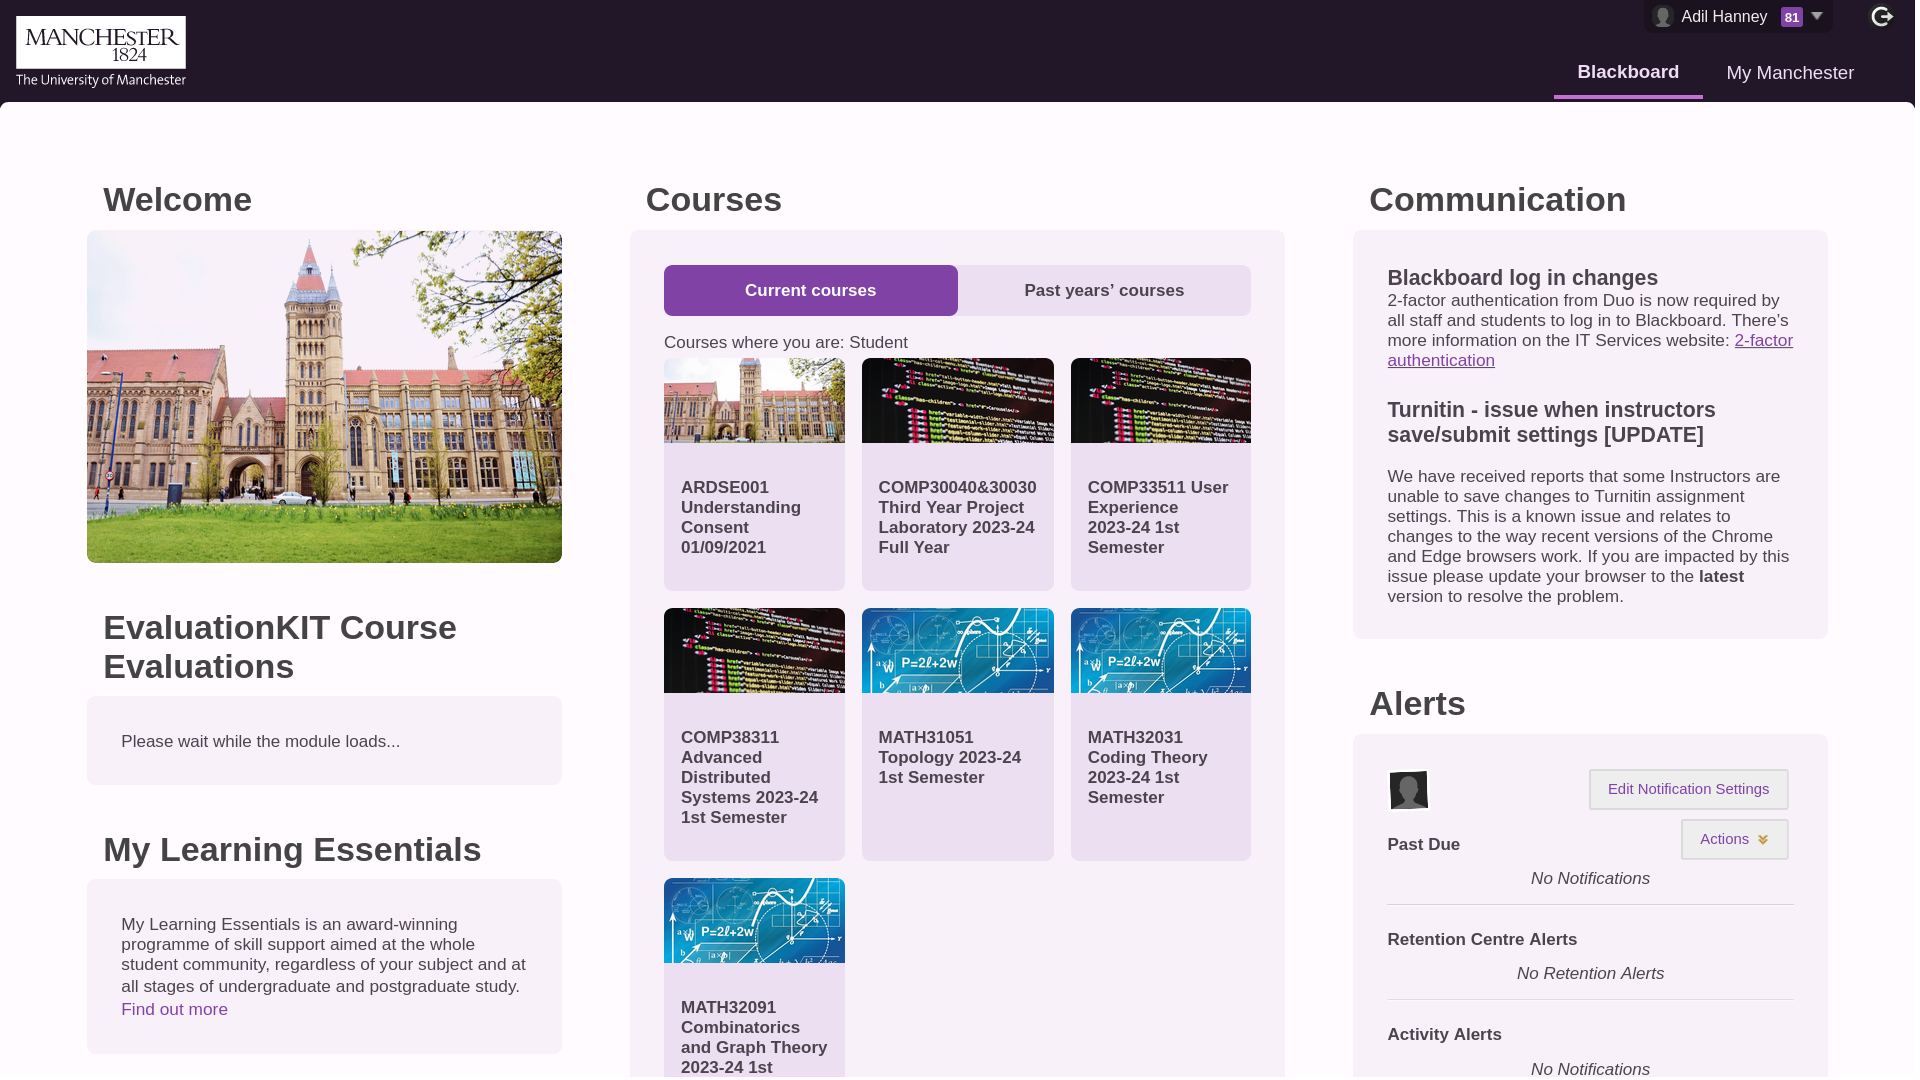
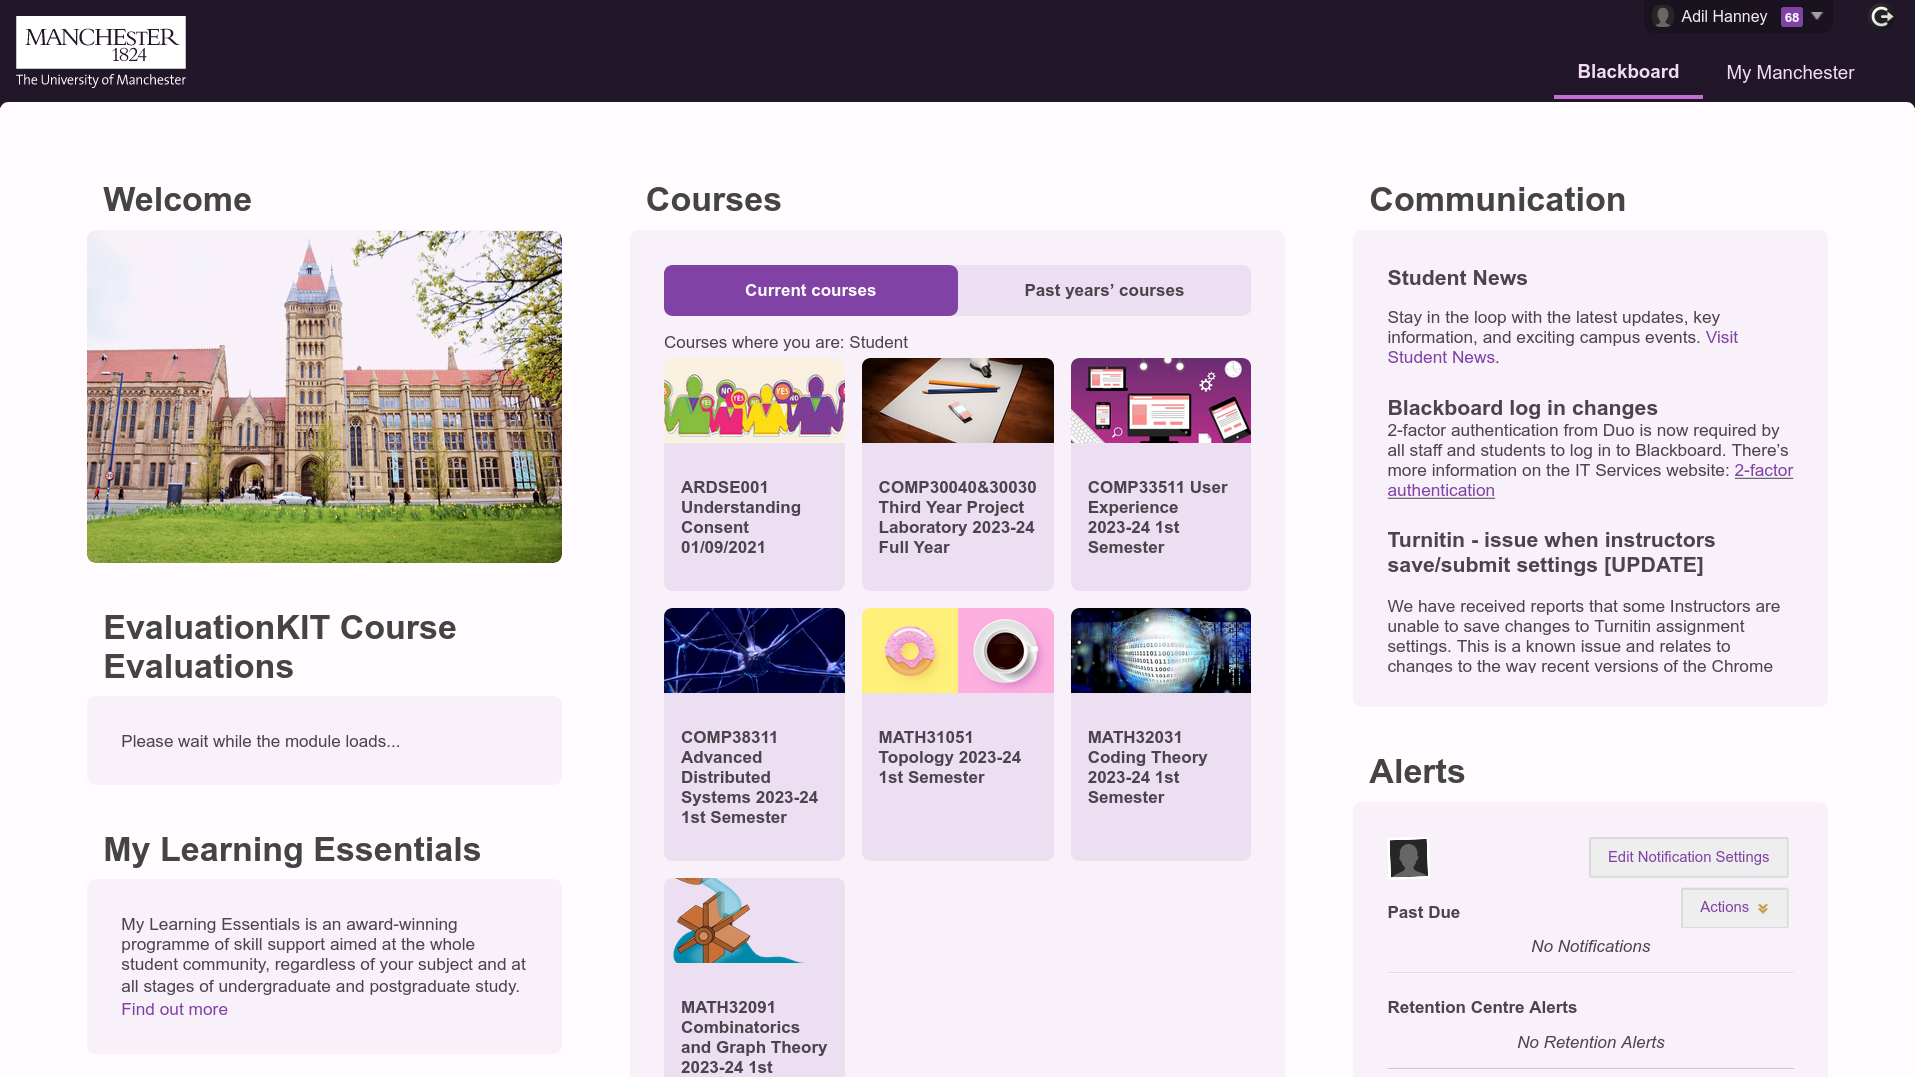
chore: update screenshot and changelog

diff --git a/main.css b/main.css
@@ -1,6 +1,6 @@
 /* ==UserStyle==
 @name           UoM Blackboard theme
-@version        20231204.00.00
+@version        20231211.00.00
 @namespace      userstyles.world/user/adil192
 @description    Themes the blackboard UoM website to look more modern and use a consistent colour scheme.
 @author         adil192

diff --git a/styles/_version.scss b/styles/_version.scss
@@ -1,6 +1,6 @@
 /* ==UserStyle==
 @name           UoM Blackboard theme
-@version        20231204.00.00
+@version        20231211.00.00
 @namespace      userstyles.world/user/adil192
 @description    Themes the blackboard UoM website to look more modern and use a consistent colour scheme.
 @author         adil192

diff --git a/CHANGELOG.md b/CHANGELOG.md
@@ -5,6 +5,7 @@ Here I will outline the changes I've made over time...
 ### 20231211
 
 - Fixed the add_course_images script sometimes not working
+- Added images for individual modules (with the add_course_images script)
 
 ### 20231204
 
